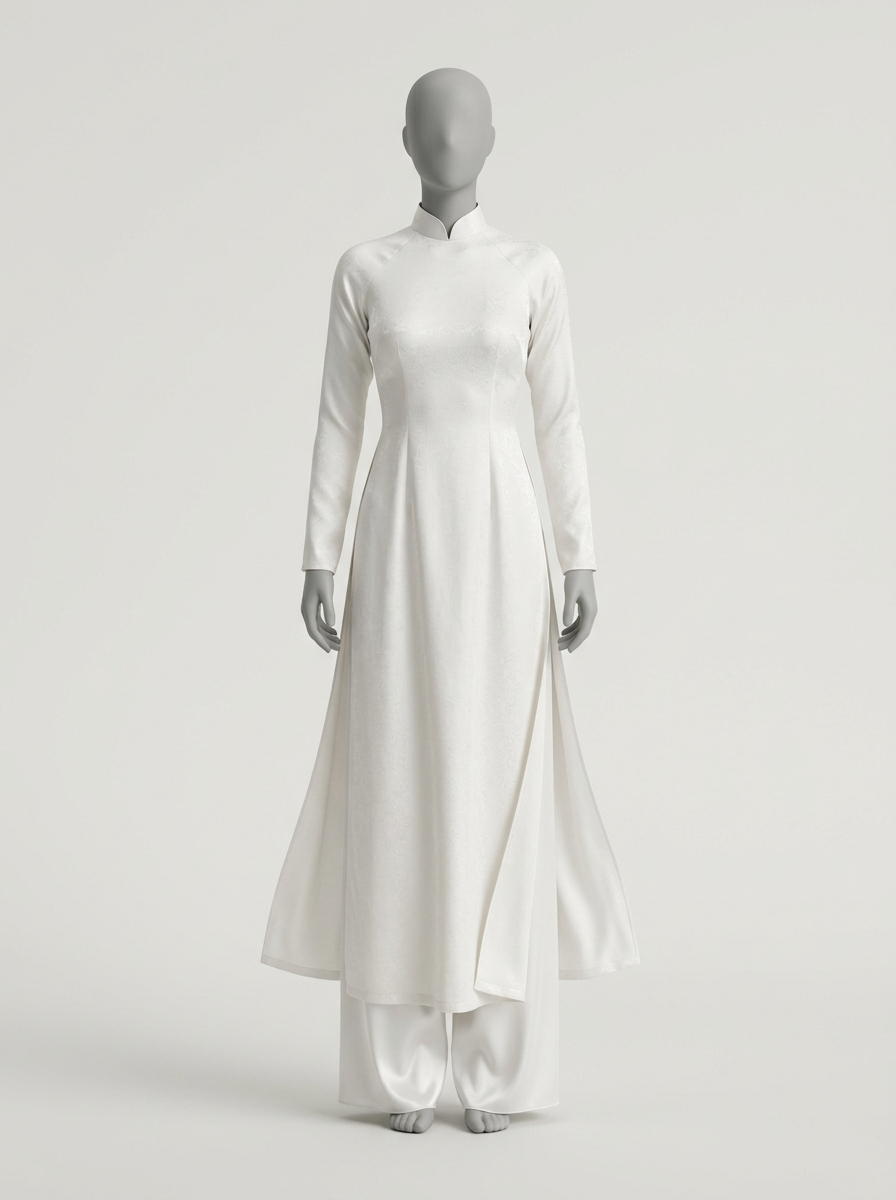
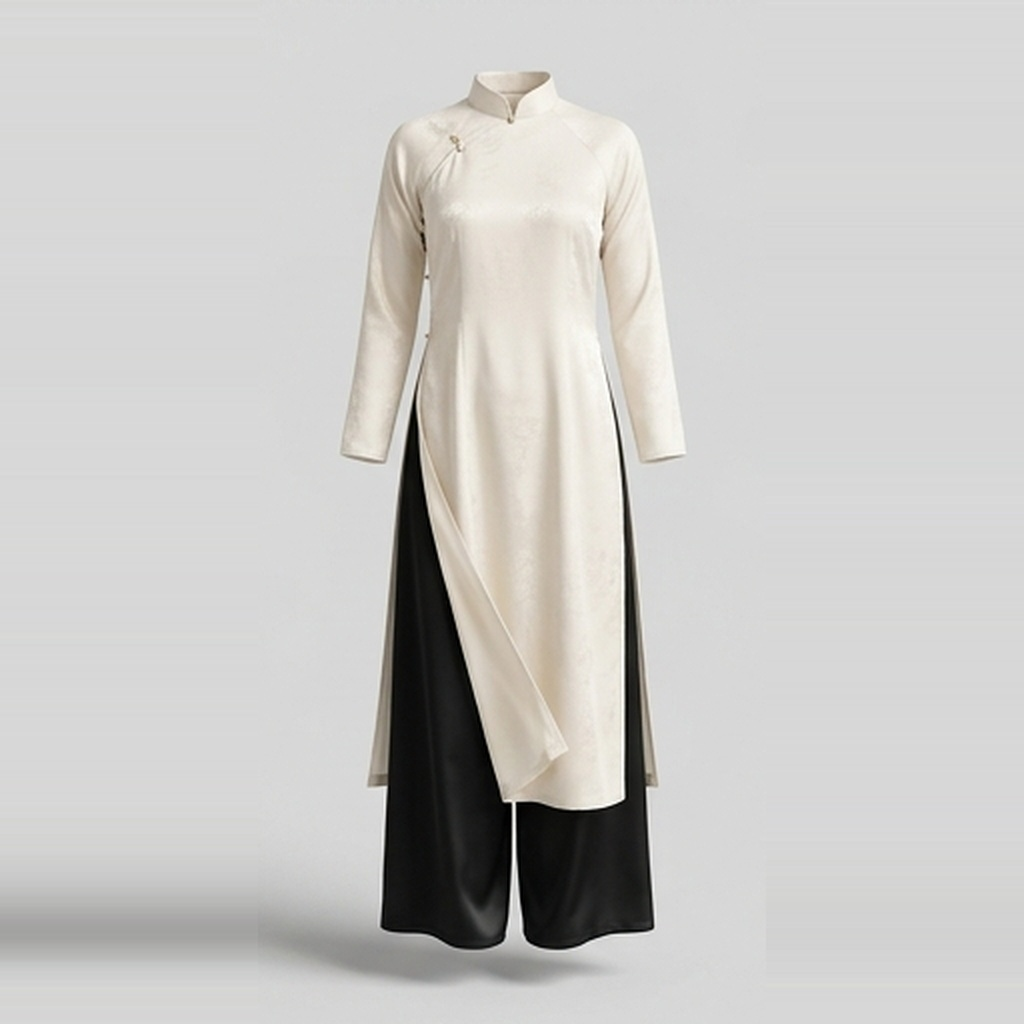
feat(vietphuc): add authentic multi-layer 2x4 grid color variants for all 5 traditional garments

Changed region(s): [[0.0, 0.0312, 0.6875, 0.9688]]

diff --git a/src/data/modelsTryOn.ts b/src/data/modelsTryOn.ts
@@ -66,7 +66,8 @@ export const PRESET_CLOTHING_ITEMS: ClothingItemOption[] = [
       'vang-hoang-cuc': '/images/viet_phuc/ao_dai_vang-hoang-cuc.jpg',
       'xanh-ngoc-luc': '/images/viet_phuc/ao_dai_xanh-ngoc-luc.jpg',
       'tim-hue': '/images/viet_phuc/ao_dai_tim-hue.jpg',
-      'xanh-cham': '/images/viet_phuc/ao_dai_xanh-cham.jpg'
+      'xanh-cham': '/images/viet_phuc/ao_dai_xanh-cham.jpg',
+      'den-tuyen': '/images/viet_phuc/ao_dai_den-tuyen.jpg'
     },
     defaultModelLookUrl: {
       'model-female-standard': '/images/looks/look_aodai_duxuan.jpg',
@@ -89,7 +90,8 @@ export const PRESET_CLOTHING_ITEMS: ClothingItemOption[] = [
       'vang-hoang-cuc': '/images/viet_phuc/ao_ngu_than_vang-hoang-cuc.jpg',
       'xanh-ngoc-luc': '/images/viet_phuc/ao_ngu_than_xanh-ngoc-luc.jpg',
       'tim-hue': '/images/viet_phuc/ao_ngu_than_tim-hue.jpg',
-      'xanh-cham': '/images/viet_phuc/ao_ngu_than_xanh-cham.jpg'
+      'xanh-cham': '/images/viet_phuc/ao_ngu_than_xanh-cham.jpg',
+      'den-tuyen': '/images/viet_phuc/ao_ngu_than_den-tuyen.jpg'
     },
     defaultModelLookUrl: {
       'model-female-standard': '/images/looks/look_nguthan_trachieu.jpg',
@@ -112,7 +114,8 @@ export const PRESET_CLOTHING_ITEMS: ClothingItemOption[] = [
       'vang-hoang-cuc': '/images/viet_phuc/ao_nhat_binh_vang-hoang-cuc.jpg',
       'xanh-ngoc-luc': '/images/viet_phuc/ao_nhat_binh_xanh-ngoc-luc.jpg',
       'tim-hue': '/images/viet_phuc/ao_nhat_binh_tim-hue.jpg',
-      'xanh-cham': '/images/viet_phuc/ao_nhat_binh_xanh-cham.jpg'
+      'xanh-cham': '/images/viet_phuc/ao_nhat_binh_xanh-cham.jpg',
+      'den-tuyen': '/images/viet_phuc/ao_nhat_binh_den-tuyen.jpg'
     },
     defaultModelLookUrl: {
       'model-female-standard': '/images/looks/look_nhatbinh_hoangtrieu.jpg',
@@ -135,7 +138,8 @@ export const PRESET_CLOTHING_ITEMS: ClothingItemOption[] = [
       'vang-hoang-cuc': '/images/viet_phuc/ao_tu_than_vang-hoang-cuc.jpg',
       'xanh-ngoc-luc': '/images/viet_phuc/ao_tu_than_xanh-ngoc-luc.jpg',
       'tim-hue': '/images/viet_phuc/ao_tu_than_tim-hue.jpg',
-      'xanh-cham': '/images/viet_phuc/ao_tu_than_xanh-cham.jpg'
+      'xanh-cham': '/images/viet_phuc/ao_tu_than_xanh-cham.jpg',
+      'den-tuyen': '/images/viet_phuc/ao_tu_than_den-tuyen.jpg'
     },
     defaultModelLookUrl: {
       'model-female-standard': '/images/looks/look_aodai_duxuan.jpg',
@@ -158,7 +162,8 @@ export const PRESET_CLOTHING_ITEMS: ClothingItemOption[] = [
       'vang-hoang-cuc': '/images/viet_phuc/ao_ba_ba_vang-hoang-cuc.jpg',
       'xanh-ngoc-luc': '/images/viet_phuc/ao_ba_ba_xanh-ngoc-luc.jpg',
       'tim-hue': '/images/viet_phuc/ao_ba_ba_tim-hue.jpg',
-      'xanh-cham': '/images/viet_phuc/ao_ba_ba_xanh-cham.jpg'
+      'xanh-cham': '/images/viet_phuc/ao_ba_ba_xanh-cham.jpg',
+      'den-tuyen': '/images/viet_phuc/ao_ba_ba_den-tuyen.jpg'
     },
     defaultModelLookUrl: {
       'model-female-standard': '/images/hero_model_modern.jpg',

diff --git a/scripts/slice_grid.py b/scripts/slice_grid.py
@@ -1,0 +1,88 @@
+import sys
+import os
+from PIL import Image
+
+def slice_grid(image_path, garment_prefix, output_dir='public/images/viet_phuc'):
+    if not os.path.exists(image_path):
+        print(f"Error: {image_path} does not exist")
+        return False
+
+    img = Image.open(image_path)
+    W, H = img.size
+    print(f"Image opened: {image_path} ({W}x{H})")
+
+    rows = 2
+    cols = 4
+    cell_w = W / cols
+    cell_h = H / rows
+
+    # 8 color mappings in 2x4 grid order (left-to-right, top-to-bottom)
+    color_keys = [
+        # Row 1
+        'do-son',
+        'trang-lua-nga',
+        'hong-canh-sen',
+        'vang-hoang-cuc',
+        # Row 2
+        'xanh-ngoc-luc',
+        'tim-hue',
+        'xanh-cham',
+        'den-tuyen'
+    ]
+
+    os.makedirs(output_dir, exist_ok=True)
+    idx = 0
+
+    for r in range(rows):
+        for c in range(cols):
+            color_id = color_keys[idx]
+            idx += 1
+
+            # Cell bounds
+            left = int(c * cell_w)
+            top = int(r * cell_h)
+            right = int((c + 1) * cell_w)
+            bottom = int((r + 1) * cell_h)
+
+            cell = img.crop((left, top, right, bottom))
+            cw, ch = cell.size
+
+            # Target 1:1 square crop with seamless horizontal edge extension
+            if ch > cw:
+                pad_left = (ch - cw) // 2
+                pad_right = ch - cw - pad_left
+
+                left_strip = cell.crop((0, 0, 1, ch)).resize((pad_left, ch), Image.Resampling.NEAREST)
+                right_strip = cell.crop((cw - 1, 0, cw, ch)).resize((pad_right, ch), Image.Resampling.NEAREST)
+
+                square = Image.new('RGB', (ch, ch))
+                square.paste(left_strip, (0, 0))
+                square.paste(cell, (pad_left, 0))
+                square.paste(right_strip, (pad_left + cw, 0))
+            elif cw > ch:
+                pad_top = (cw - ch) // 2
+                pad_bottom = cw - ch - pad_top
+
+                top_strip = cell.crop((0, 0, cw, 1)).resize((cw, pad_top), Image.Resampling.NEAREST)
+                bottom_strip = cell.crop((0, ch - 1, cw, ch)).resize((cw, pad_bottom), Image.Resampling.NEAREST)
+
+                square = Image.new('RGB', (cw, cw))
+                square.paste(top_strip, (0, 0))
+                square.paste(cell, (0, pad_top))
+                square.paste(bottom_strip, (0, pad_top + ch))
+            else:
+                square = cell
+
+            # Resize to high quality 1024x1024
+            final_img = square.resize((1024, 1024), Image.Resampling.LANCZOS)
+            out_file = os.path.join(output_dir, f"{garment_prefix}_{color_id}.jpg")
+            final_img.save(out_file, quality=95)
+            print(f"  [{idx}/8] Saved: {out_file} (1024x1024)")
+
+    print("Successfully sliced all 8 color variants seamlessly!")
+    return True
+
+if __name__ == '__main__':
+    grid_img = sys.argv[1] if len(sys.argv) > 1 else 'public/images/viet_phuc/ao_dai_grid_2x4.jpg'
+    prefix = sys.argv[2] if len(sys.argv) > 2 else 'ao_dai'
+    slice_grid(grid_img, prefix)
